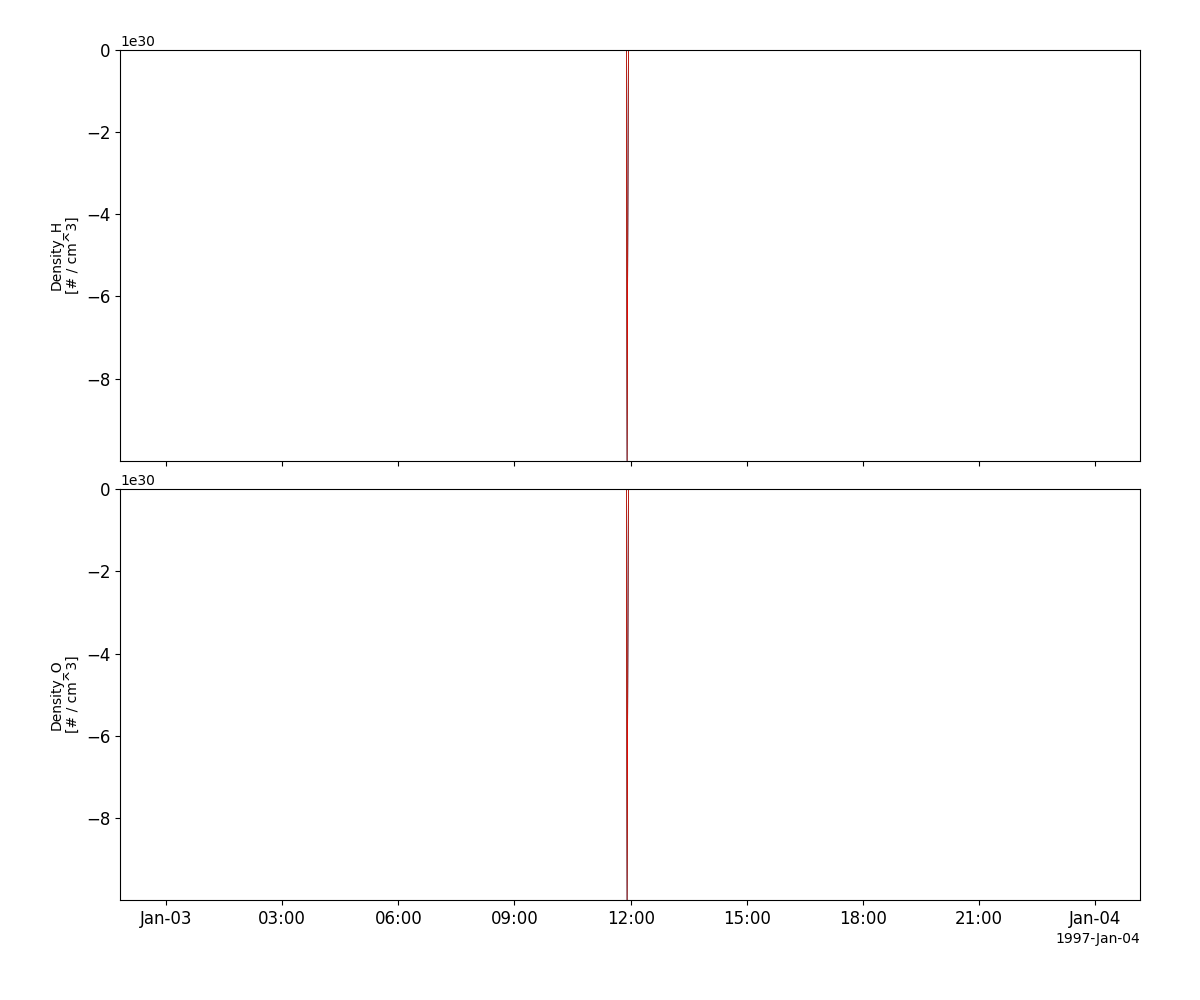
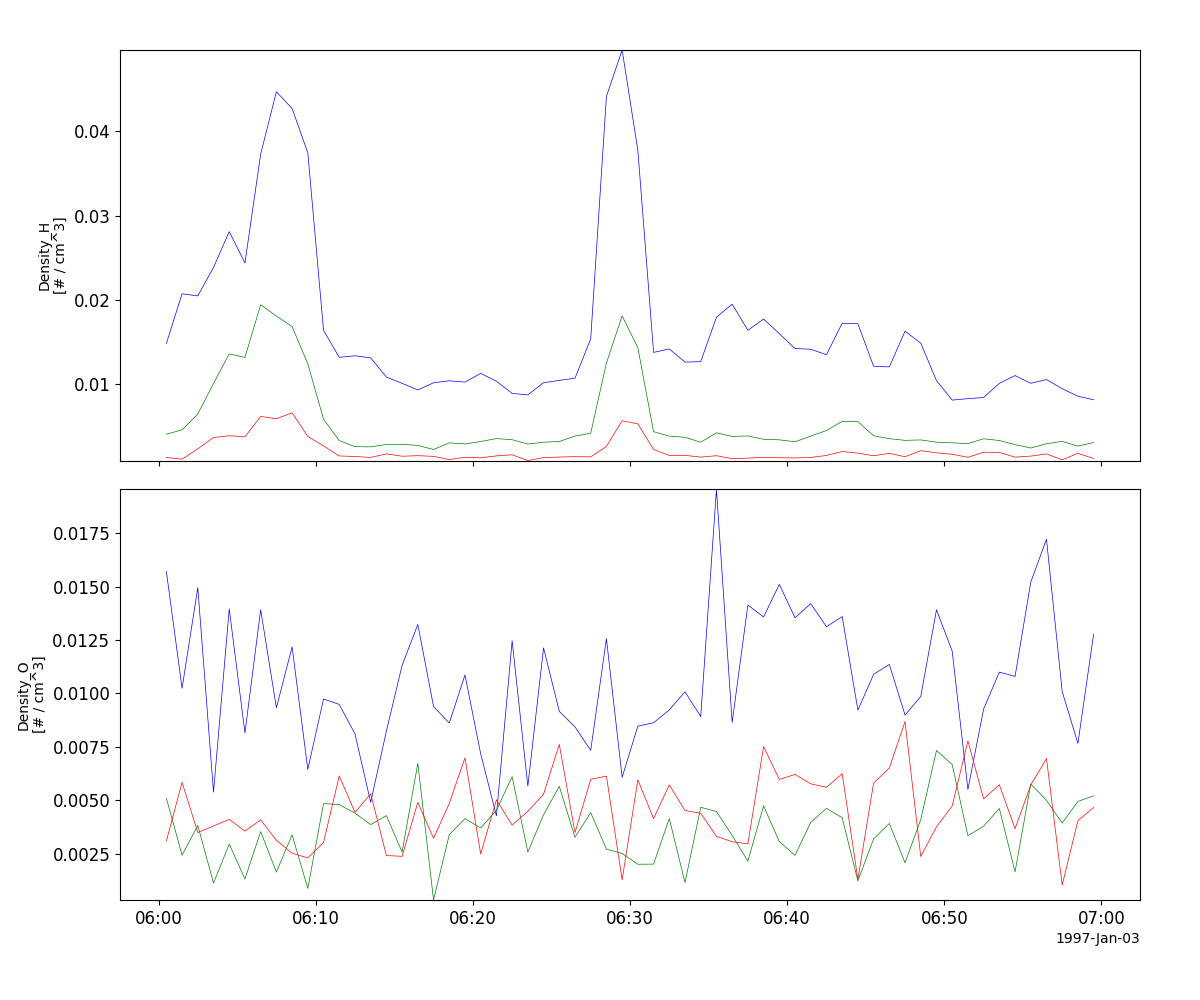
several updates

diff --git a/pyspedas/geotail/__init__.py b/pyspedas/geotail/__init__.py
@@ -1,5 +1,6 @@
 
 from .load import load
+from pytplot import options
 
 def mgf(trange=['2018-11-5', '2018-11-6'],
         datatype='k0',
@@ -299,7 +300,19 @@ def epic(trange=['2018-11-5', '2018-11-6'],
         List of tplot variables created.
 
     """
-    return load(instrument='epi', trange=trange, datatype=datatype, suffix=suffix, get_support_data=get_support_data, varformat=varformat, varnames=varnames, downloadonly=downloadonly, notplot=notplot, time_clip=time_clip, no_update=no_update)
+
+
+    tvars = load(instrument='epi', trange=trange, datatype=datatype, suffix=suffix, get_support_data=get_support_data, varformat=varformat, varnames=varnames, downloadonly=downloadonly, notplot=notplot, time_clip=time_clip, no_update=no_update)
+
+    if tvars is None or notplot:
+        return tvars
+
+    if 'IDiffI_I'+suffix in tvars:
+        options('IDiffI_I'+suffix, 'spec', True)
+        options('IDiffI_I'+suffix, 'ylog', True)
+        options('IDiffI_I'+suffix, 'zlog', True)
+
+    return tvars
 
 def pwi(trange=['2018-11-5', '2018-11-6'],
         datatype='k0',

diff --git a/pyspedas/geopack/ts04.py b/pyspedas/geopack/ts04.py
@@ -58,6 +58,10 @@ def tts04(pos_var_gsm, parmod=None, suffix=''):
     for idx, time in enumerate(pos_data.times):
         tilt = geopack.recalc(time)
 
+        if not np.isfinite(par[idx, :]).all():
+            # skip if there are any NaNs in the input
+            continue
+
         # dipole B in GSM
         b0gsm[idx, 0], b0gsm[idx, 1], b0gsm[idx, 2] = geopack.dip(pos_re[idx, 0], pos_re[idx, 1], pos_re[idx, 2])
 

diff --git a/docs/source/conf.py b/docs/source/conf.py
@@ -21,7 +21,7 @@ import pyspedas.cotrans.cotrans
 # -- Project information -----------------------------------------------------
 
 project = 'pySPEDAS'
-copyright = '2021, The pySPEDAS Community'
+copyright = '2018-2022, UC Regents, unless otherwise indicated'
 author = 'The pySPEDAS Community'
 
 # The full version, including alpha/beta/rc tags

diff --git a/pyspedas/twins/README.md b/pyspedas/twins/README.md
@@ -24,7 +24,7 @@ img_vars = pyspedas.twins.imager(trange=['2018-11-5', '2018-11-6'])
 #### Lyman-alpha Detector (LAD)
 
 ```python
-lad_vars = pyspedas.twins.lad(trange=['2018-11-5', '2018-11-6'])
+lad_vars = pyspedas.twins.lad(trange=['2018-11-5/6:00', '2018-11-5/6:20'], time_clip=True)
 
 tplot(['lad1_data', 'lad2_data'])
 ```

diff --git a/pyspedas/geotail/README.md b/pyspedas/geotail/README.md
@@ -45,7 +45,7 @@ tplot(['N0', 'V0'])
 #### Comprehensive Plasma Instrumentation (CPI)
 
 ```python
-cpi_vars = pyspedas.geotail.cpi(trange=['2018-11-5', '2018-11-6'])
+cpi_vars = pyspedas.geotail.cpi(trange=['2018-11-5/15:00', '2018-11-5/18:00'], time_clip=True)
 
 tplot(['SW_P_Den', 'SW_P_AVGE', 'SW_V', 'HP_P_Den'])
 ```

diff --git a/pyspedas/polar/README.md b/pyspedas/polar/README.md
@@ -67,7 +67,7 @@ tplot(['total_den', 'total_v', 'total_t'])
 #### Toroidal Imaging Mass Angle Spectrograph (TIMAS)
 
 ```python
-timas_vars = pyspedas.polar.timas()
+timas_vars = pyspedas.polar.timas(trange=['1997-01-03/6:00', '1997-01-03/7:00'], time_clip=True)
 
 tplot(['Density_H', 'Density_O'])
 ```
